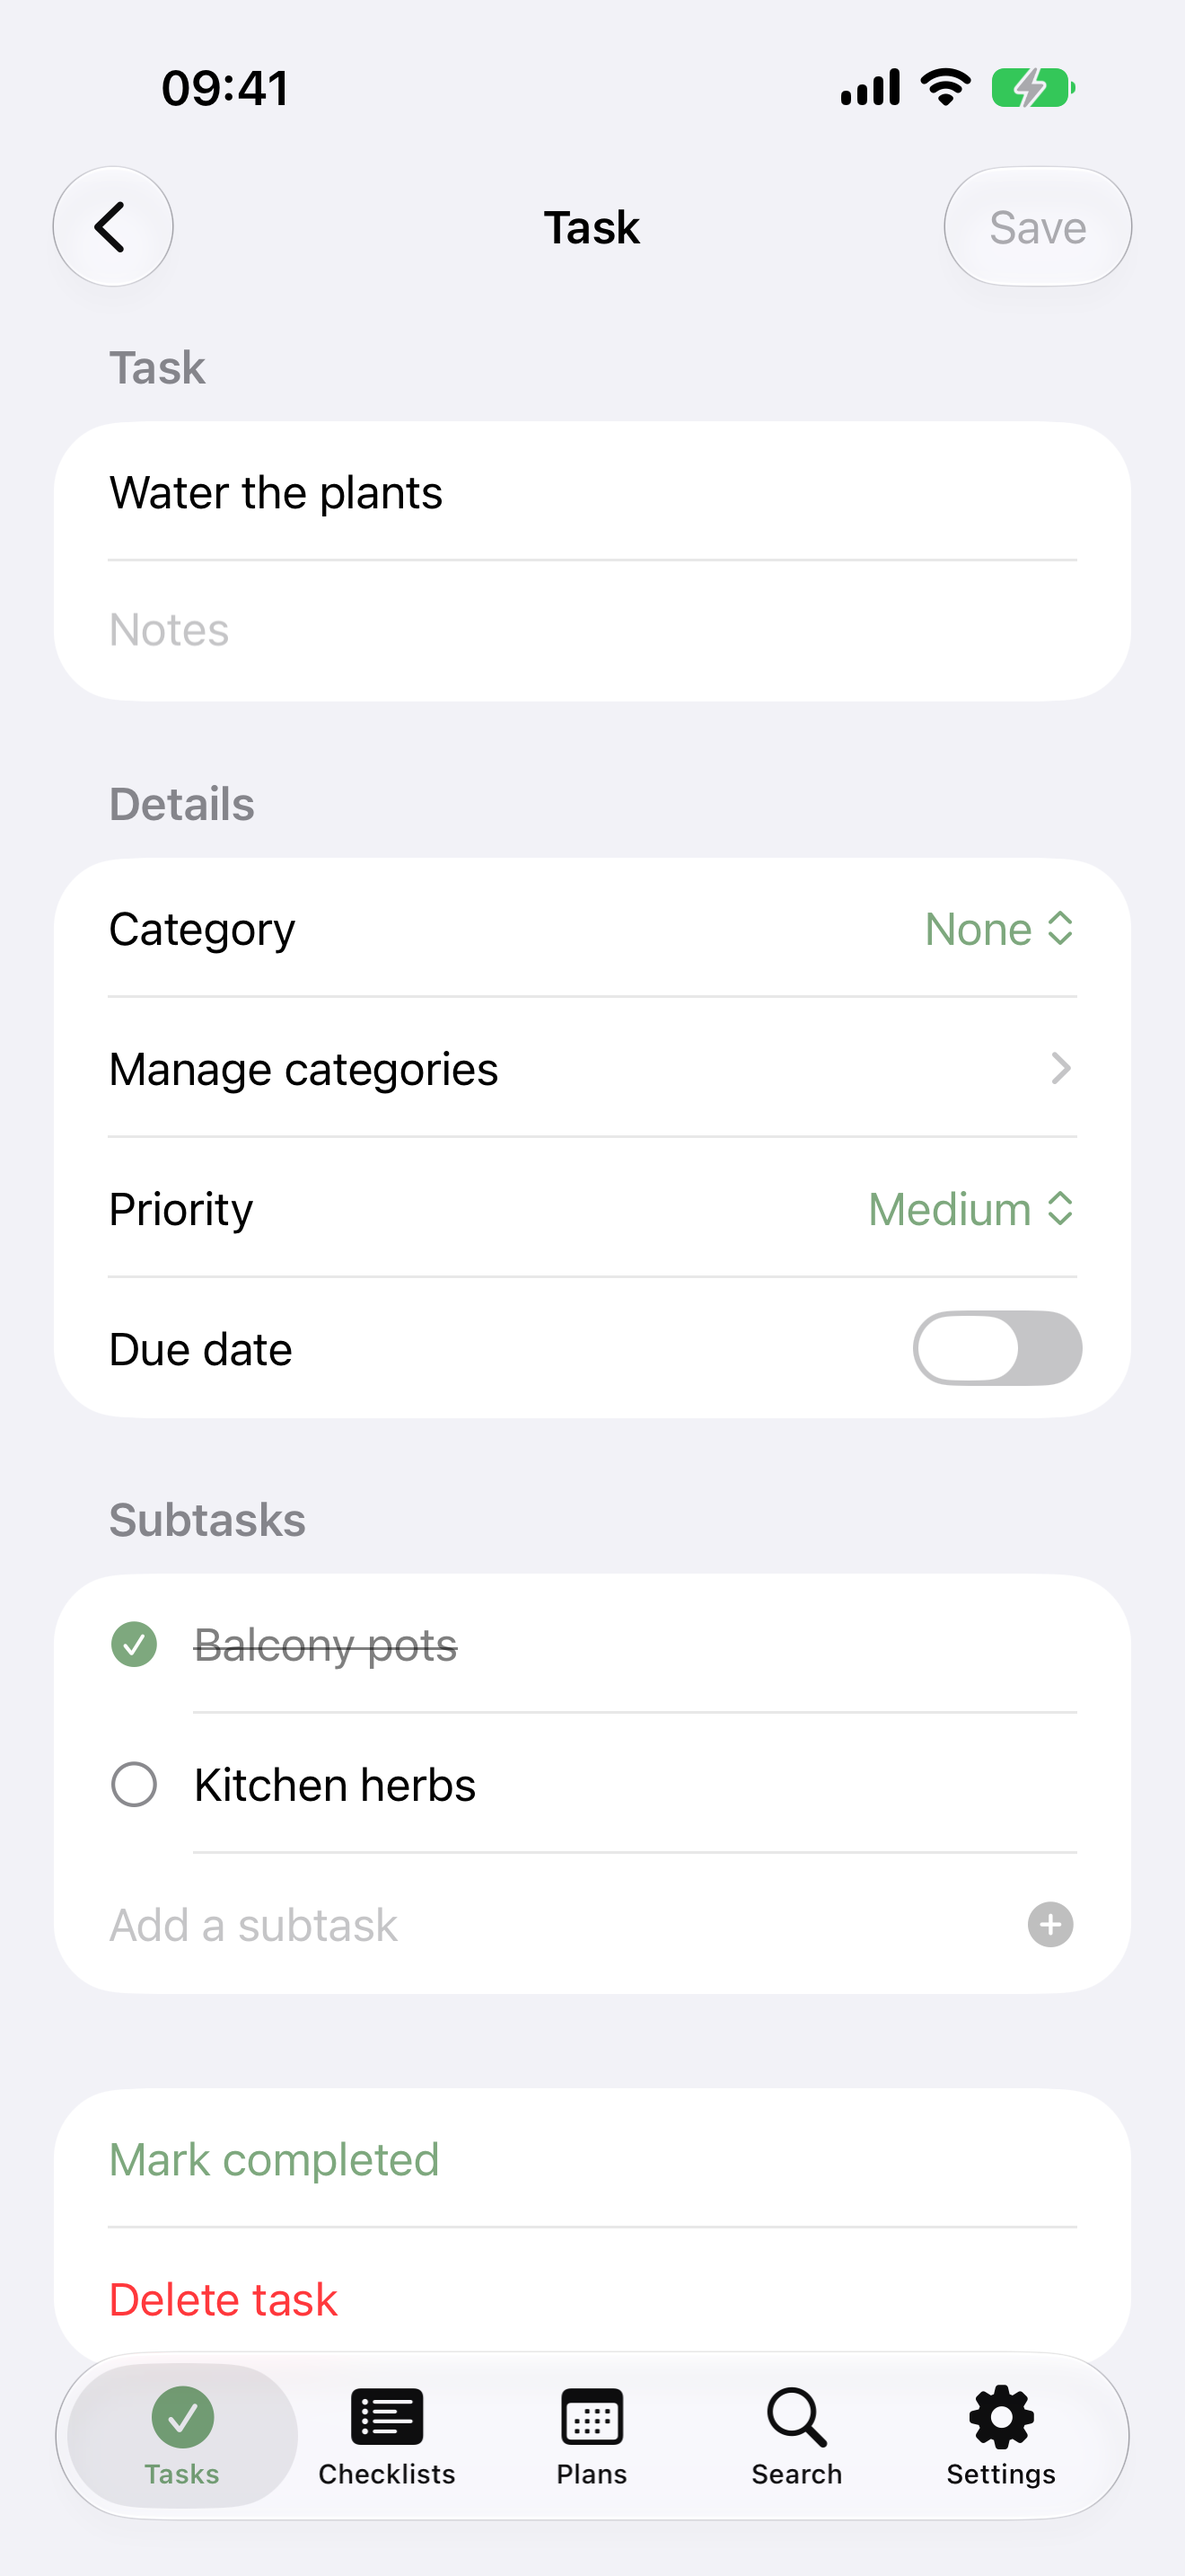
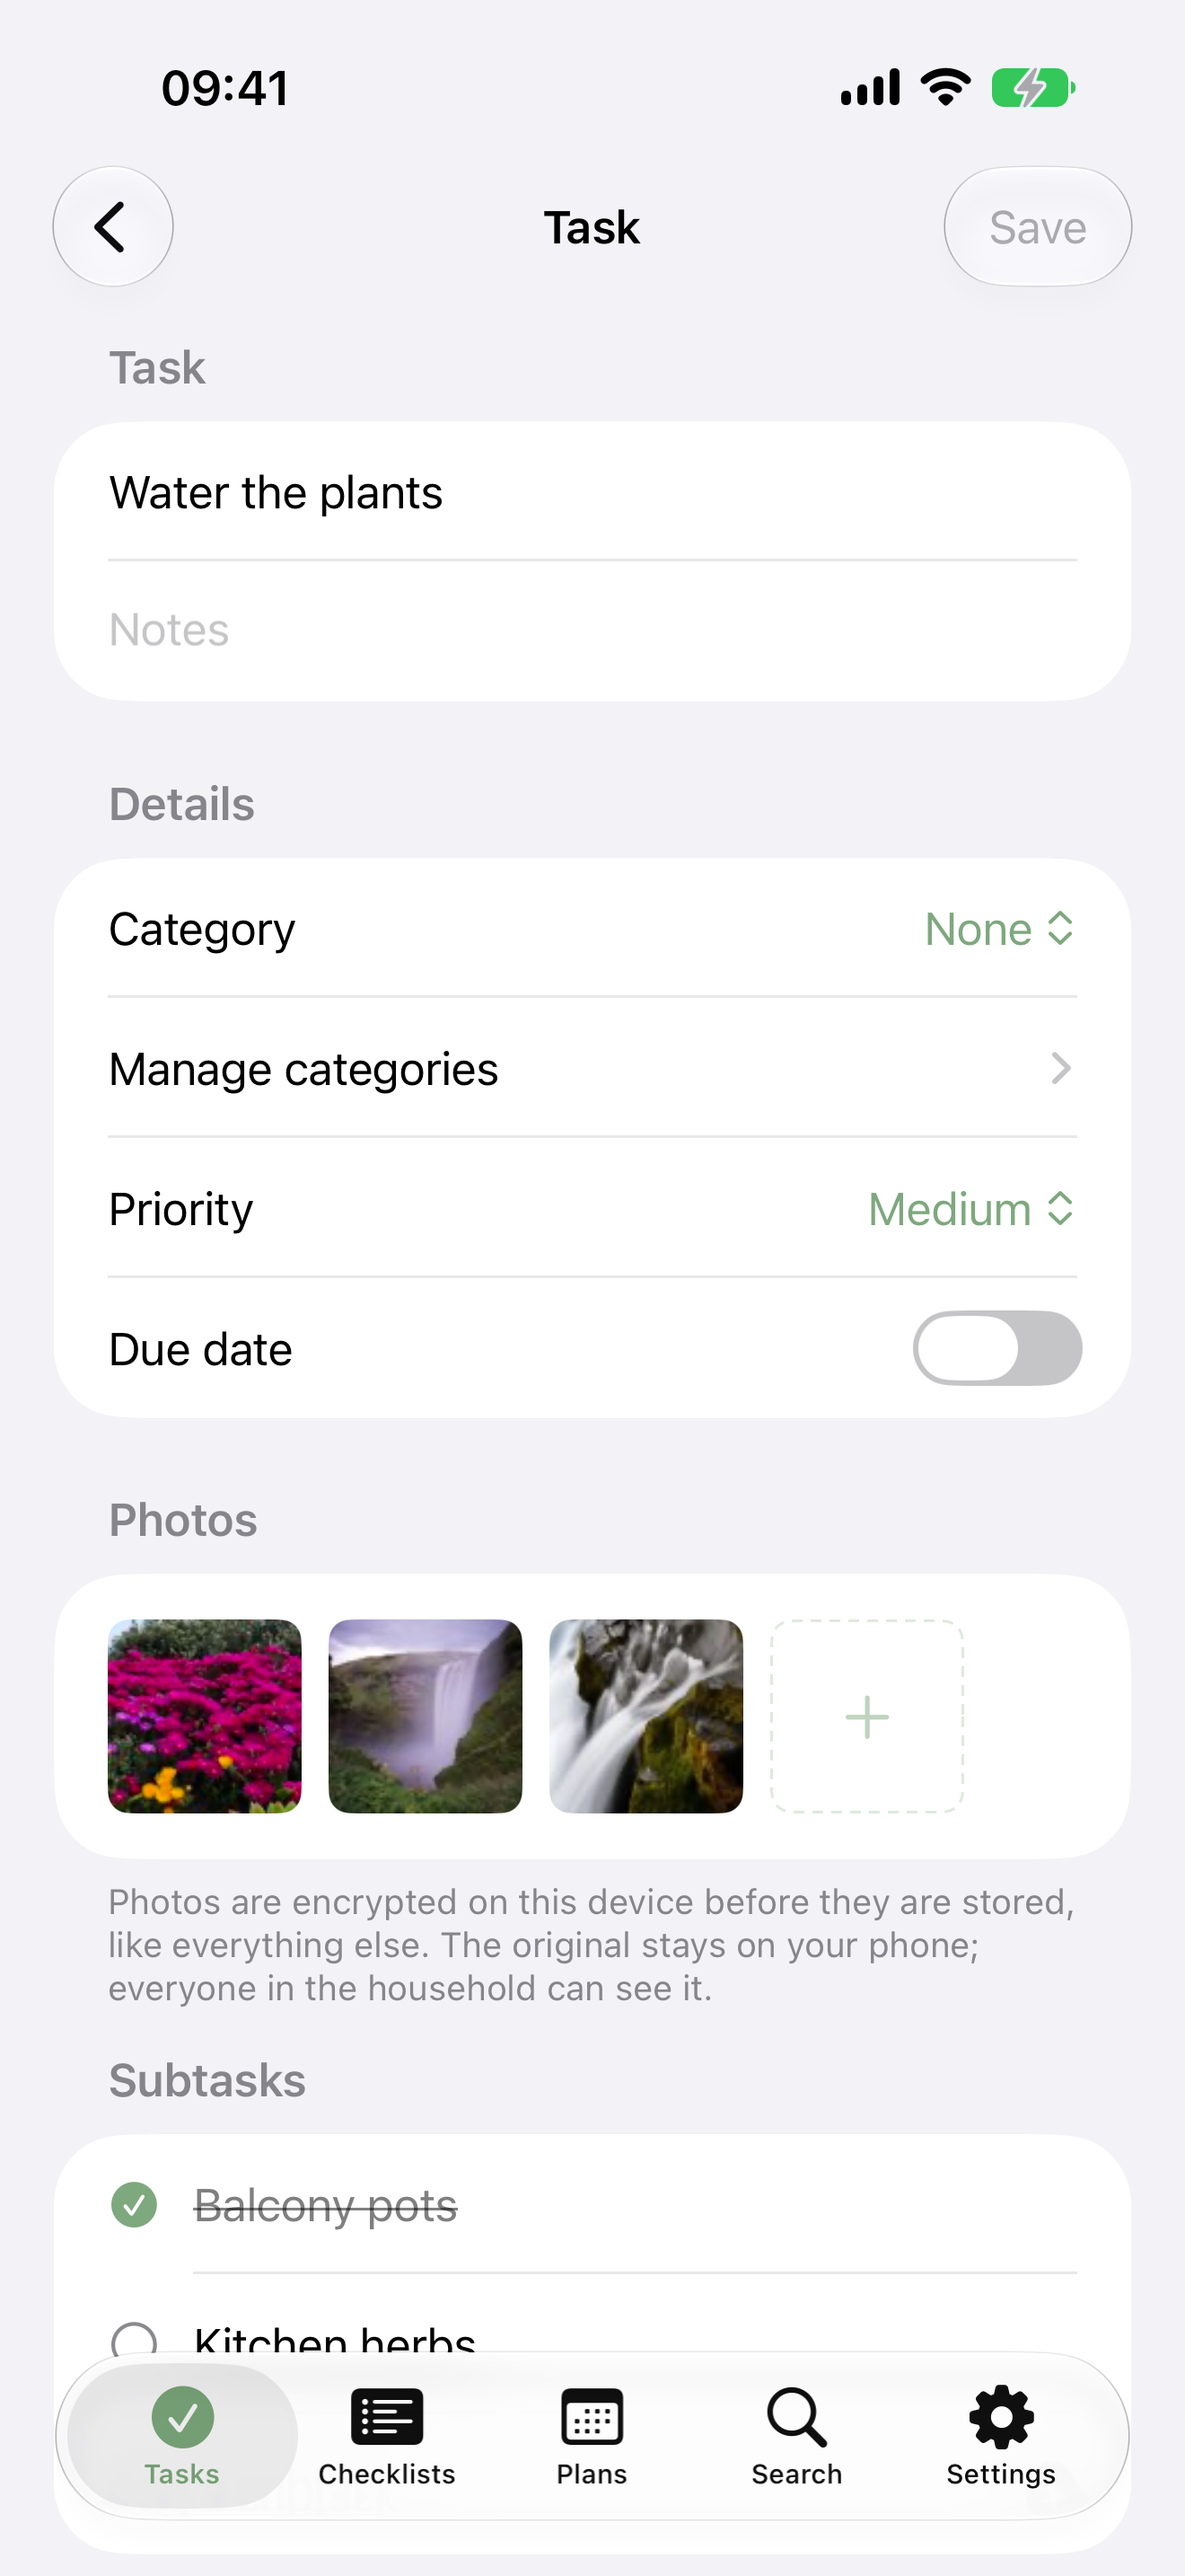
Photos crashed the app on every Vision failure, and the store never saw them
Capturing the 1.8.0 screenshots killed the app the moment the flow left the
photo screen. `PhotoIndexer` wrapped `VNImageRequestHandler.perform` in a
`CheckedContinuation` and resumed it from both the request's completion handler
and the `catch`. Vision is not either/or: a failed request has its completion
handler called with the error AND `perform` rethrows, so both ran, the
continuation was resumed twice, and Swift trapped — EXC_BREAKPOINT, no
exception name, nothing above the trap naming Vision.

Indexing runs on every photo attached, so this was live for anyone who added a
picture in build 46. The continuation is gone rather than guarded: `perform` is
synchronous and leaves its results on the request, so a throw simply yields an
empty index. A shape that cannot be resumed twice beats a flag saying not to.

The photo E2E could not have caught it. `flow_photo_01_attach` ended on the
line asserting the thumbnail, while indexing was still running, and
`flow_photo_02_gallery` opens with `stopApp` — a process that died in between
left no trace in either. That flow now waits out indexing and makes the app
prove it is still alive.

The screenshot set is the other half. The store has been showing the 14 August
set since 1.5.0, and 1.8.0's headline is a feature that appeared nowhere in it:
the capture flow had no photo step at all, and the Connect an AI shot added for
1.7.0 was never actually run. Ten shots now, Apple's maximum, with photos at 02
[…]

diff --git a/PacelliApp/Sources/Core/PhotoIndexer.swift b/PacelliApp/Sources/Core/PhotoIndexer.swift
@@ -42,52 +42,60 @@ enum PhotoIndexer {
         return Index(text: await text, labelsJSON: await labels)
     }
 
-    private static func recogniseText(_ image: CGImage) async -> String {
-        await withCheckedContinuation { continuation in
-            let request = VNRecognizeTextRequest { request, _ in
-                let lines = (request.results as? [VNRecognizedTextObservation] ?? [])
-                    .compactMap { $0.topCandidates(1).first?.string }
-                continuation.resume(returning: lines.joined(separator: " "))
-            }
-            // `.accurate` because this runs once, at import, on one photo —
-            // there is no live camera feed to keep up with, and the whole value
-            // is in reading a serial number correctly the first time.
-            request.recognitionLevel = .accurate
-            request.usesLanguageCorrection = true
+    // Vision is not either/or: when a request fails, `perform` calls that
+    // request's completion handler with the error AND rethrows. Both halves of
+    // a do/catch therefore run, and a `CheckedContinuation` resumed from both
+    // traps the process — EXC_BREAKPOINT in `CheckedContinuation.resume`, with
+    // nothing in the log naming Vision. It cost the 1.8.0 screenshot capture on
+    // 2026-08-23, and the photo E2E could not have caught it: `flow_photo_01`
+    // ends the moment the thumbnail appears, while indexing is still running,
+    // and `flow_photo_02` opens with `stopApp`.
+    //
+    // There is no continuation here any more. `perform` is synchronous and
+    // leaves its output on the request, so the results are simply read after it
+    // returns and a throw means an empty index. A shape that cannot be resumed
+    // twice is worth more than a guard against resuming twice.
 
-            let handler = VNImageRequestHandler(cgImage: image, options: [:])
-            do {
-                try handler.perform([request])
-            } catch {
-                continuation.resume(returning: "")
-            }
+    private static func recogniseText(_ image: CGImage) async -> String {
+        let request = VNRecognizeTextRequest()
+        // `.accurate` because this runs once, at import, on one photo —
+        // there is no live camera feed to keep up with, and the whole value
+        // is in reading a serial number correctly the first time.
+        request.recognitionLevel = .accurate
+        request.usesLanguageCorrection = true
+
+        let handler = VNImageRequestHandler(cgImage: image, options: [:])
+        do {
+            try handler.perform([request])
+        } catch {
+            return ""
         }
+
+        return (request.results ?? [])
+            .compactMap { $0.topCandidates(1).first?.string }
+            .joined(separator: " ")
     }
 
     private static func classify(_ image: CGImage) async -> String? {
-        await withCheckedContinuation { continuation in
-            let request = VNClassifyImageRequest { request, _ in
-                let picked = (request.results as? [VNClassificationObservation] ?? [])
-                    .filter { $0.confidence >= minimumConfidence }
-                    .prefix(maximumLabels)
-                    .map { ["label": $0.identifier, "confidence": Double($0.confidence)] }
+        let request = VNClassifyImageRequest()
 
-                guard !picked.isEmpty,
-                      let data = try? JSONSerialization.data(withJSONObject: Array(picked)),
-                      let json = String(data: data, encoding: .utf8)
-                else {
-                    continuation.resume(returning: nil)
-                    return
-                }
-                continuation.resume(returning: json)
-            }
-
-            let handler = VNImageRequestHandler(cgImage: image, options: [:])
-            do {
-                try handler.perform([request])
-            } catch {
-                continuation.resume(returning: nil)
-            }
+        let handler = VNImageRequestHandler(cgImage: image, options: [:])
+        do {
+            try handler.perform([request])
+        } catch {
+            return nil
         }
+
+        let picked = (request.results ?? [])
+            .filter { $0.confidence >= minimumConfidence }
+            .prefix(maximumLabels)
+            .map { ["label": $0.identifier, "confidence": Double($0.confidence)] }
+
+        guard !picked.isEmpty,
+              let data = try? JSONSerialization.data(withJSONObject: Array(picked)),
+              let json = String(data: data, encoding: .utf8)
+        else { return nil }
+
+        return json
     }
 }

diff --git a/PacelliApp/Sources/App/ConnectAIView.swift b/PacelliApp/Sources/App/ConnectAIView.swift
@@ -25,6 +25,10 @@ struct ConnectAIView: View {
     @State private var creating = false
     @State private var errorMessage: String?
     @State private var copied = false
+    /// The code is the whole point of this screen, and it is drawn above the
+    /// field that makes it. Leaving the field focused after a create puts the
+    /// keyboard over the thing the user just asked for.
+    @FocusState private var labelFocused: Bool
 
     /// Drives the countdown and the expiry cut-off. One second is plenty for a
     /// ten-minute deadline and costs nothing while the screen is open.
@@ -113,6 +117,7 @@ struct ConnectAIView: View {
             Section {
                 TextField("Name it — \"Claude on my laptop\"", text: $label)
                     .accessibilityIdentifier("ai_link_label_field")
+                    .focused($labelFocused)
                     .submitLabel(.done)
                     .onSubmit(create)
                 if creating {
@@ -165,6 +170,7 @@ struct ConnectAIView: View {
 
     private func create() {
         guard !creating else { return }
+        labelFocused = false
         creating = true
         copied = false
         Task {

diff --git a/PacelliApp/Sources/App/SettingsView.swift b/PacelliApp/Sources/App/SettingsView.swift
@@ -478,6 +478,10 @@ struct PrivacyEncryptionView: View {
                 )
                 .font(.callout)
                 Text(
+                    "That folder is open to you, which means it is open to anyone holding your unlocked phone: \"Require Face ID\" locks Pacelli, not the Files app. If that matters more to you than reaching your pictures without the app, \"Free up space\" below removes the readable copies from this phone. The household keeps its photos either way."
+                )
+                .font(.callout)
+                Text(
                     "Location data is removed before a photo is stored. A picture taken at home carries your address in it otherwise."
                 )
                 .font(.callout)

diff --git a/AUDIT_2026-08-22_photos.md b/AUDIT_2026-08-22_photos.md
@@ -171,9 +171,41 @@ Carried, unchanged.
 
 ## Carried to 1.9.0
 
-1. A sentence on the Privacy screen: the app lock does not cover the Files folder.
+1. ~~A sentence on the Privacy screen: the app lock does not cover the Files
+   folder.~~ **Done in 1.8.0 (build 47).** A rebuild was forced by the
+   `PhotoIndexer` continuation crash below, so this went in with it rather than
+   waiting a release.
 2. `expirationDate` on the pairing-code pasteboard item.
 3. Encrypt the assistant label.
 4. `household_members` update/delete restricted to admins-or-self, gated on the
    burn E2E — carried from the 1.7.0 audit and now more relevant, since a
    member can be an LLM that can also read every photo.
+
+
+## [FIXED in build 47] `PhotoIndexer` trapped on every Vision failure path
+
+Found on 2026-08-23 while capturing the 1.8.0 screenshots — the app died the
+moment the capture flow left the photo screen, and the crash report named
+`CheckedContinuation.resume` with nothing pointing at Vision.
+
+`recogniseText` and `classify` both wrapped `VNImageRequestHandler.perform` in
+`withCheckedContinuation`, resuming from the request's completion handler and
+again from the `catch`. Vision is not either/or: when a request fails it calls
+that request's completion handler with the error **and** rethrows. Both halves
+ran, the continuation was resumed twice, and Swift trapped the process —
+`EXC_BREAKPOINT`, no exception name, no Vision symbol above the trap.
+
+Severity is the whole feature: indexing runs on every photo attached, so any
+Vision failure killed the app seconds after the user added a picture. It was
+live in build 46, which is what 1.8.0 would have shipped.
+
+The continuation is gone rather than guarded. `perform` is synchronous and
+leaves its output on the request, so the results are read after it returns and
+a throw yields an empty index. A shape that cannot be resumed twice beats a
+flag that says not to.
+
+**Why the harness was green.** `flow_photo_01_attach` ended on the line that
+asserts the thumbnail — while indexing was still running — and
+`flow_photo_02_gallery` opens with `stopApp`. A process that died between the
+two left no trace in either. The flow now waits out indexing and makes the app
+prove it is still alive before it ends.
